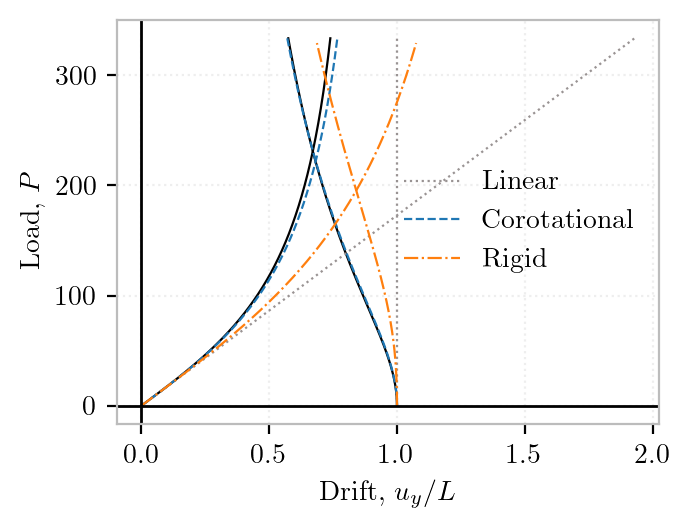
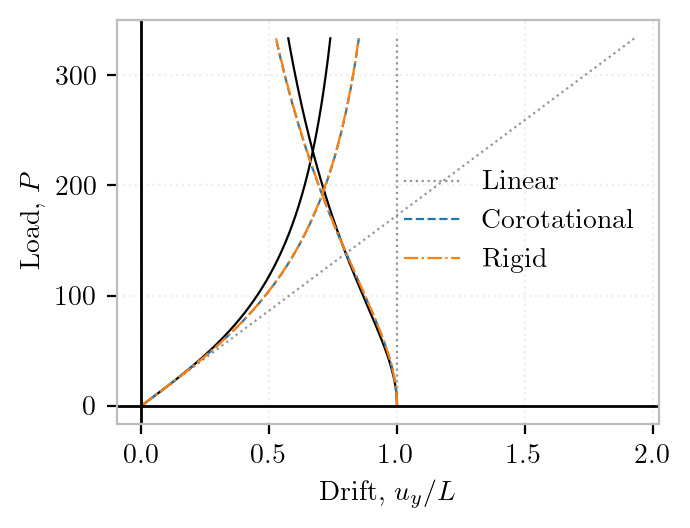
updates

diff --git a/content/en/benchmarks/frame-0002/column.py b/content/en/benchmarks/frame-0002/column.py
@@ -12,7 +12,7 @@ try:
 except:
     pass
 
-def create_cantilever(shape, slenderness, element, section, transform="Rigid", shear=0, ne=2):
+def create_cantilever(shape, slenderness, element, section, transform="Rigid", shear=0, ne=1):
 
     E = 29e3 # ksi
     v = 0.30 #0.5*E/G - 1
@@ -87,7 +87,7 @@ def analyze(model):
 
     model.system('Umfpack')
     model.integrator("LoadControl", Mmax/nsteps)
-    model.test('NormDispIncr',1e-9, 300, 0)
+    model.test('NormDispIncr',1e-9, 80, 0)
     model.algorithm("Newton")
     model.analysis("Static")
 
@@ -131,7 +131,7 @@ if __name__ == "__main__":
     ax.plot(uy, P, "-", color=color)
     ax.plot(ux, P, "-", color=color)
 
-    for transform in ["Linear", "Corotational", "Rigid"]:
+    for transform in "Linear", "Corotational", "Rigid":
         model = create_cantilever(shape, slenderness,
                                 section = os.environ.get("Section", "ShearFiber"),
                                 element = os.environ.get("Element", "PrismFrame"),

diff --git a/content/en/benchmarks/frame-0002/index.md b/content/en/benchmarks/frame-0002/index.md
@@ -10,6 +10,8 @@ $$
 u_y = P_y L^3/(3 E I_z) +  P_y L/(\kappa G A)
 $$
 
+![](img/frame-0002.png)
+
 ## End Force
 
 In this case the cantilever beam is subjected only to a transverse force
